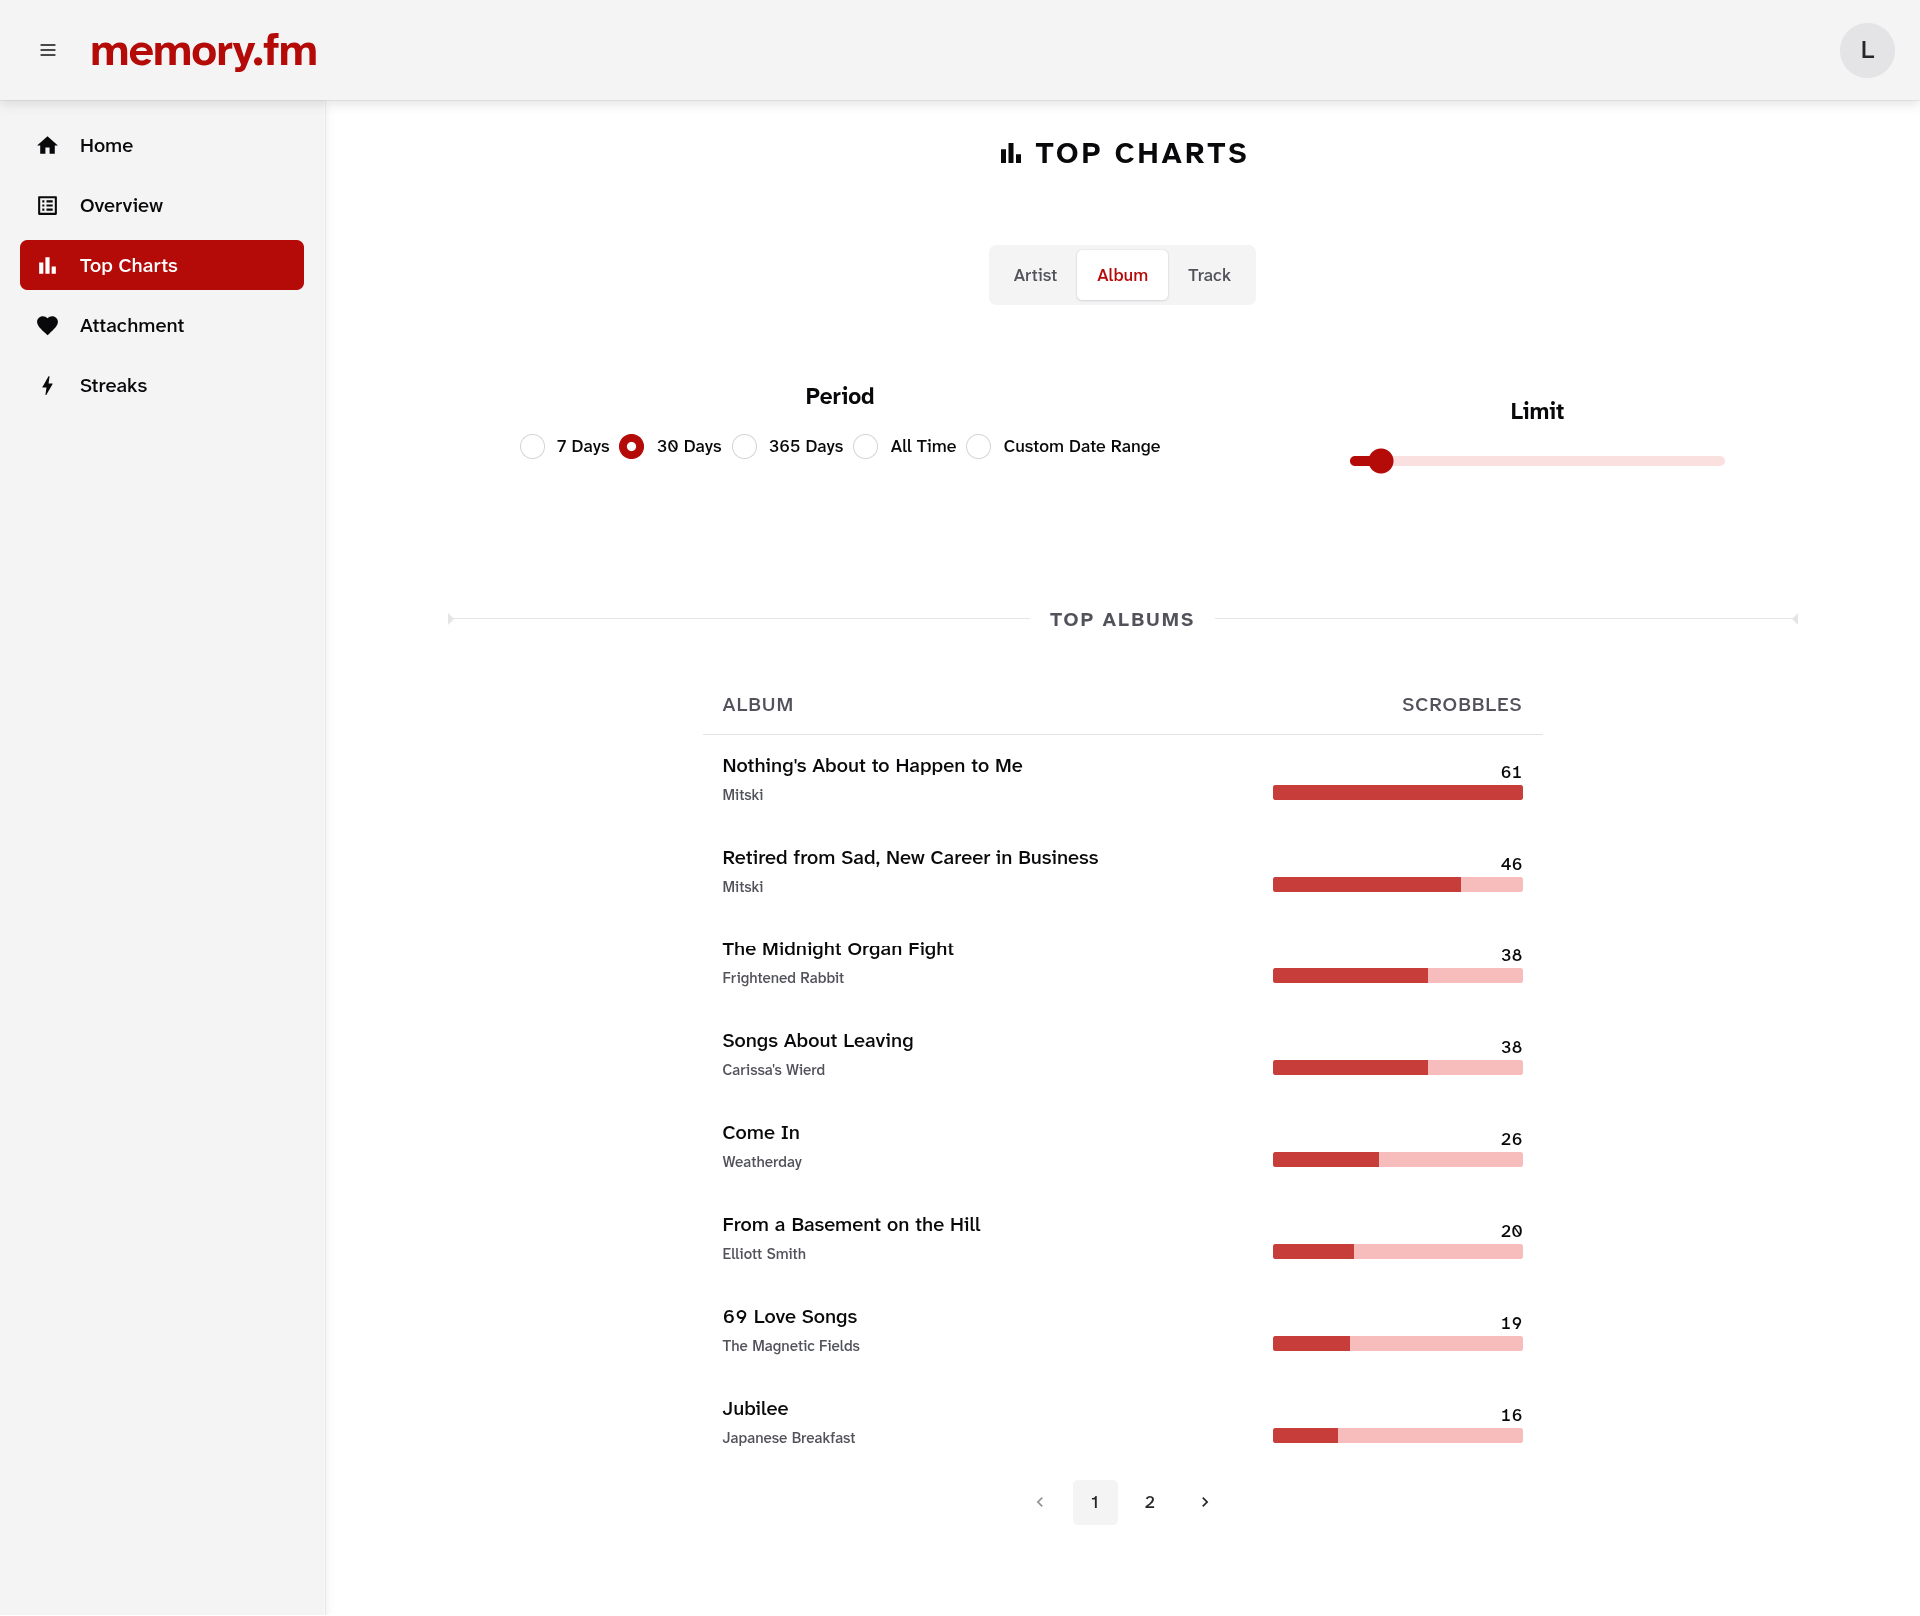
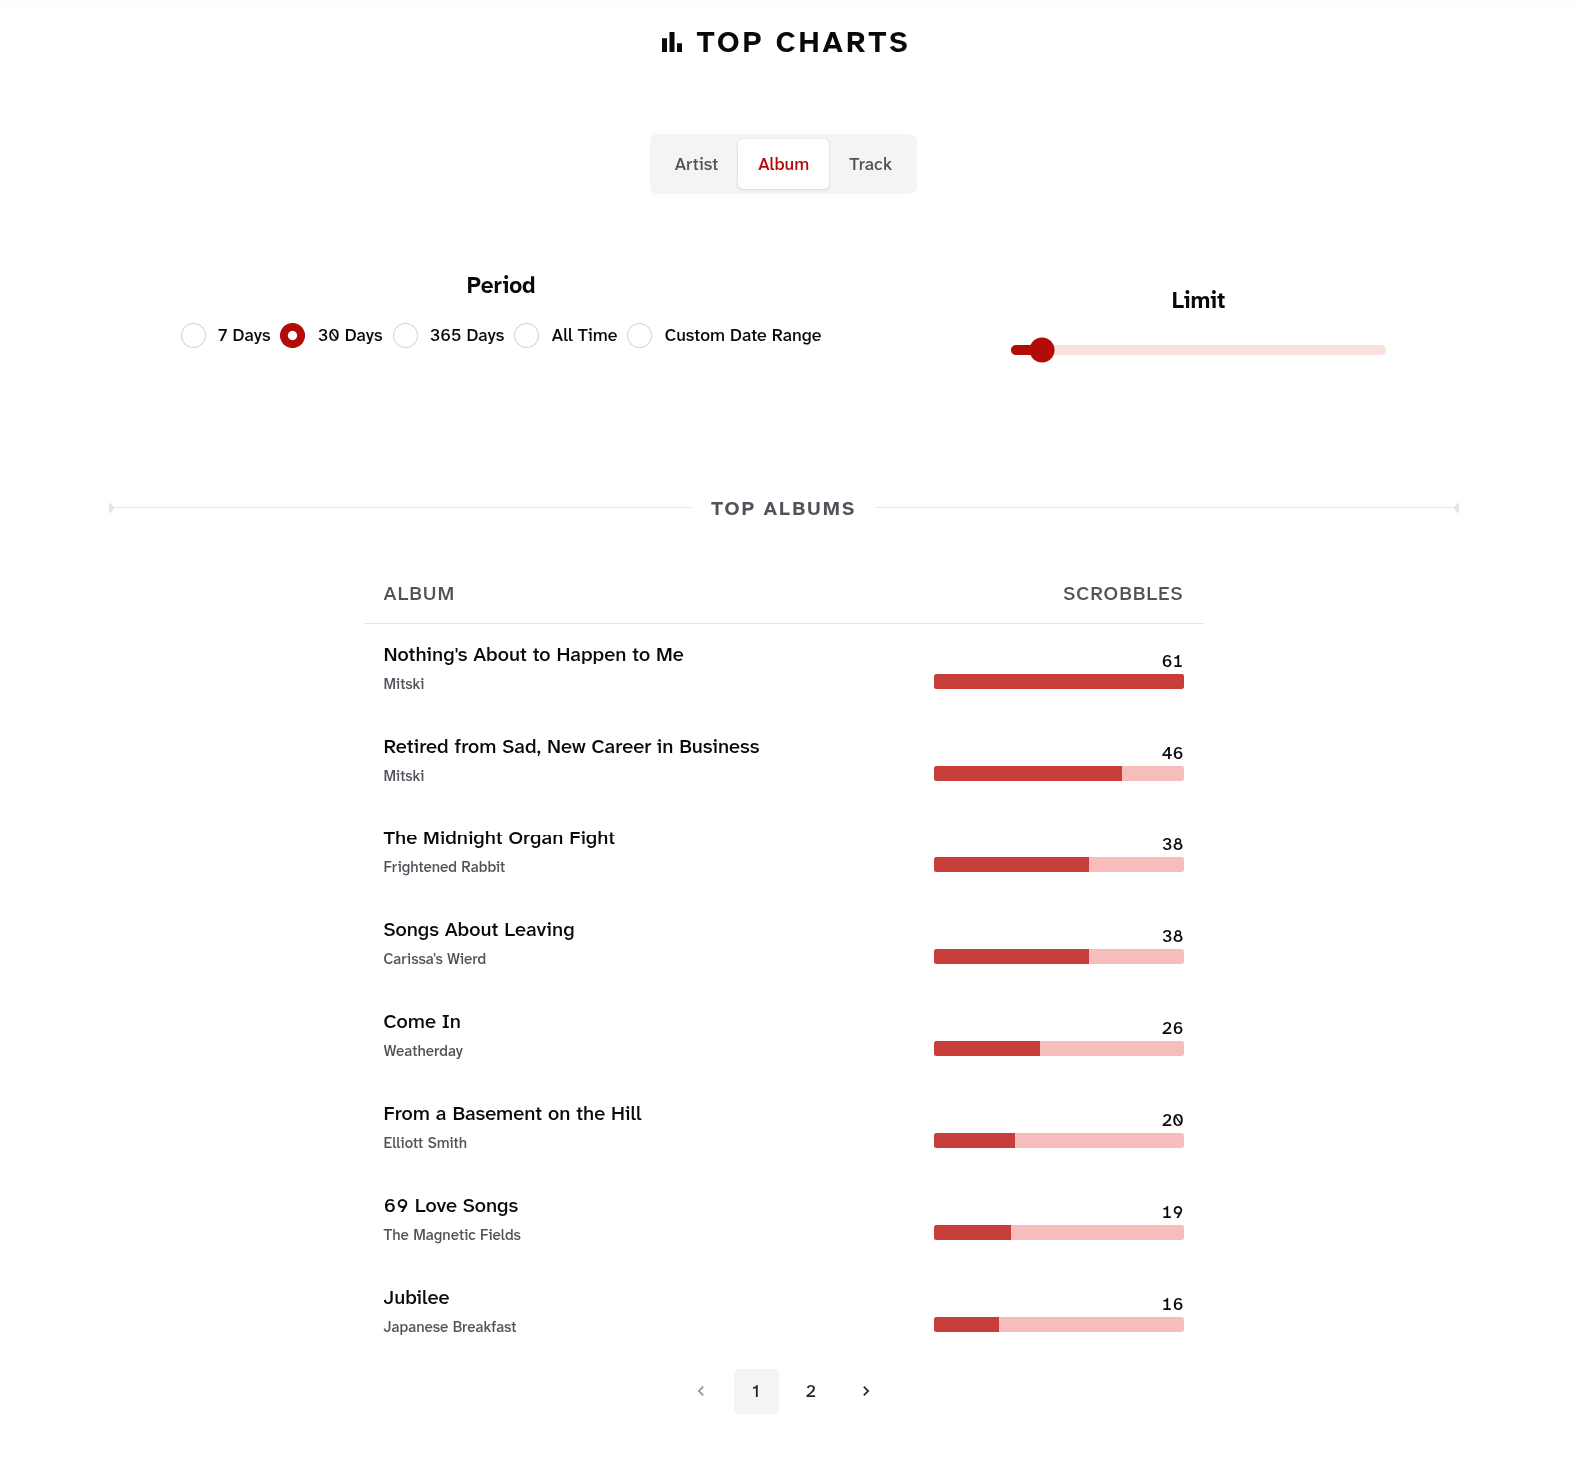
web: add top streaks and improve mobile usability of streaks page
- Add TopStreaks component on Streaks page to show top 8 streaks.
- On smaller screen, show message to rotate screen to view streaks
  timeline.
- Fix sliderselector width for smaller screen.
- Left align all alert messages.
- Update screenshots in README.

diff --git a/apps/web/src/components/features/streaks/top_streaks.tsx b/apps/web/src/components/features/streaks/top_streaks.tsx
@@ -1,0 +1,147 @@
+import type { ListeningStreak } from "@/typing";
+import { Box, Card, Flex, Text as ChakraText, Badge, Alert, useBreakpointValue, Stack } from "@chakra-ui/react";
+
+function topStreaksByLength(streaks: ListeningStreak[], count: number) {
+
+    const sortedStreaks = streaks.sort((a, b) => b.length - a.length);
+    return sortedStreaks.slice(0, count);
+}
+
+function StreakCard(streak: ListeningStreak) {
+
+    const { start, end } = streak;
+
+    const fmtNumber = (value: number, name: string) => {
+        return value > 1 ? `${value} ${name}s` : value > 0 ? `${value} ${name}` : "";
+    }
+    const formatDuration = (ms: number) => {
+        const totalminutes = Math.trunc(ms / (60 * 1000));
+        const minutes = totalminutes % 60;
+        const totalhours = Math.trunc(totalminutes / 60);
+        const hours = totalhours % 24;
+        const days = Math.trunc(totalhours / 24);
+
+        return `${fmtNumber(days, "day")} ${fmtNumber(hours, "hour")} ${fmtNumber(minutes, "minute")}`;
+    };
+
+    // Format Date
+    const formatDate = (value: string | number | Date) => {
+        return new Intl.DateTimeFormat(undefined, {
+            year: "numeric",
+            month: "short",
+            day: "2-digit",
+            hour: "2-digit",
+            minute: "2-digit",
+            hour12: true,
+        }).format(new Date(value));
+    };
+
+    // Compute streak duration
+    const startDate = new Date(streak.start);
+    const endDate = new Date(streak.end);
+
+    const transformedStreak = {
+        ...streak,
+        startFormatted: formatDate(start),
+        endFormatted: formatDate(end),
+        duration: endDate.getTime() - startDate.getTime(),
+        durationFormatted: formatDuration(endDate.getTime() - startDate.getTime()),
+        subnameFormatted: streak.subname ? `${streak.subname}` : "",
+    };
+
+    return (
+        <>
+            <Box w={{ base: "240px", md: "240px" }}>
+                <Card.Root
+                    variant="outline"
+                    _hover={{ bg: "bg.muted" }}
+                    transition="0.2s"
+                    padding={4}
+                >
+                    <Flex justify="space-between" align="center">
+                        <Stack gap={"1"}>
+                            <ChakraText fontWeight="bold">
+                                {transformedStreak.name}
+                            </ChakraText>
+                            {transformedStreak.subnameFormatted && (
+                                <ChakraText fontSize="sm" fontStyle="italic" color="fg">
+                                    {transformedStreak.subnameFormatted}
+                                </ChakraText>
+                            )}
+                            <ChakraText fontWeight={"bold"} fontSize={"sm"} color={"accent"}>
+                                {transformedStreak.length} Scrobbles
+                            </ChakraText>
+                            <Badge colorPalette={"brand"} mt={2} variant="surface" size={{ base: "sm", md: "md" }}>
+                                {transformedStreak.durationFormatted}
+                            </Badge>
+                            <Badge bg="bg.muted" mt={2} variant="surface" size={{ base: "sm", md: "md" }}>
+                                Start: {transformedStreak.startFormatted}
+                            </Badge>
+                            <Badge bg="bg.muted" mt={1} variant="surface" size={{ base: "sm", md: "md" }}>
+                                End: {transformedStreak.endFormatted}
+                            </Badge>
+                        </Stack>
+                    </Flex>
+                </Card.Root>
+            </Box>
+        </>
+    )
+
+}
+
+function groupCards(streaks: ListeningStreak[], size: number) {
+    const groups = [];
+
+    for (let i = 0; i < streaks.length; i += size) {
+        groups.push(streaks.slice(i, i + size));
+    }
+
+    return groups;
+}
+
+function StreakGroup(group: ListeningStreak[]) {
+    return (
+        <Flex
+            direction={{ base: "column", md: "row" }}
+            gap="10"
+            w={"full"}
+        >
+            {group.map((s) => (
+                StreakCard(s)
+            ))}
+        </Flex>
+    )
+}
+
+export default function TopStreaks(
+    { streaks }: { streaks: ListeningStreak[] }
+) {
+
+    if (streaks.length === 0) {
+        <Flex justify={"center"}>
+            <Alert.Root status={"info"} width={{ base: "250px", md: "sm" }} justifySelf={"center"}>
+                <Alert.Indicator />
+                <Alert.Content textAlign={"left"}>
+                    <Alert.Title>No streaks found in the selected period.</Alert.Title>
+                </Alert.Content>
+            </Alert.Root>
+        </Flex>
+    }
+
+    const topStreaks = topStreaksByLength(streaks, 8);
+    const groupSize = useBreakpointValue({ base: 1, md: 2, lg: 3, xl: 4 });
+    const groups = groupCards(topStreaks, groupSize || 1);
+
+    return (
+        <Flex
+            gap={{ base: 8, md: 12 }}
+            mt={6}
+            direction="column"
+            justify={"center"}
+        >
+            {groups.map((g) => (
+                StreakGroup(g)
+            ))}
+        </Flex>
+    )
+}

diff --git a/apps/web/src/components/pages/streaks.tsx b/apps/web/src/components/pages/streaks.tsx
@@ -14,6 +14,7 @@ import Section from "../ui/section";
 import { LoadingSpinner } from "../ui/loading";
 import { MdBolt } from "react-icons/md";
 import PageHeader from "../ui/page-header";
+import TopStreaks from "../features/streaks/top_streaks";
 
 
 export default function StreaksPage() {
@@ -78,16 +79,17 @@ export default function StreaksPage() {
                 <KindSelector value={params.kind} onKindChange={setKind} />
             </Box>
             <Flex
+                direction={{base: "column", md: "row"}}
                 justify="space-around"
                 wrap="wrap"
                 gap={4}
                 padding={"4"}
-                mx={"12"}
+                mx={{ base: 0, md: 12 }}
                 mt={"4"}
             >
-                <VStack align="center" gap={"4"} px="6" py="3">
+                <VStack align="center" gap={"4"} px={{base: 2, md: 6}} py="3">
                     <ChakraText
-                        fontSize={"lg"}
+                        fontSize={{base: "sm", md: "lg"}}
                         fontWeight={"bold"}
                     >Year</ChakraText>
                     <SliderSelector
@@ -99,13 +101,21 @@ export default function StreaksPage() {
                 </VStack>
             </Flex>
             {(!isLoading) && (
-                <Section
-                    title={`Streaks timeline - ${params.kind}s`}
-                >
-                    <StreaksTimeline
-                        streaks={streaks}
-                    />
-                </Section>
+                <>
+                    <Section title={`Top Streaks - ${params.kind}`}
+                    >
+                        <Box maxW={{ base: "250px", md: "full" }}>
+                            <TopStreaks streaks={streaks} />
+                        </Box>
+                    </Section>
+                    <Section
+                        title={`Streaks timeline - ${params.kind}s`}
+                    >
+                        <StreaksTimeline
+                            streaks={streaks}
+                        />
+                    </Section>
+                </>
             )}
         </Flex>
     )

diff --git a/apps/web/src/components/features/streaks/streaks_timeline.tsx b/apps/web/src/components/features/streaks/streaks_timeline.tsx
@@ -1,5 +1,5 @@
 import type { ListeningStreak } from "@/typing";
-import { Flex } from "@chakra-ui/react";
+import { Alert, Flex, useBreakpointValue } from "@chakra-ui/react";
 import type { Layout } from "plotly.js";
 import Plotly from "plotly.js-dist";
 import _createPlotlyComponent from 'react-plotly.js/factory';
@@ -119,8 +119,10 @@ export default function StreaksTimeline(
             "Length: %{customdata.length}<extra></extra>",
     }];
 
+    const chartWidth = useBreakpointValue({ md: 700, lg: 1000, xl: 1000 });
+
     const layout: Partial<Layout> = {
-        width: 1000,
+        width: chartWidth,
         height: 300,
         margin: { l: 20, r: 20, t: 0, b: 40 },
         font: {
@@ -138,17 +140,30 @@ export default function StreaksTimeline(
         paper_bgcolor: "transparent",
     }
 
+    const isWide = useBreakpointValue({ base: false, md: true, lg: true });
+
     return (
         <Flex justify={"center"}>
-            <Plot
-                data={data as any}
-                layout={layout}
-                config={{
-                    responsive: true,
-                    displayModeBar: false,
-                }}
-
-            />
+            {isWide ? (
+                <Plot
+                    data={data as any}
+                    layout={layout}
+                    config={{
+                        responsive: true,
+                        displayModeBar: false,
+                    }}
+                />) : (
+                <Alert.Root status={"info"} width={{ base: "250px", md: "sm" }} justifySelf={"center"}>
+                    <Alert.Indicator />
+                    <Alert.Content textAlign={"left"}>
+                        <Alert.Title>
+                            To view the streaks timeline on smaller devices such as smartphones,
+                            please rotate the screen to view in landscape mode.
+                        </Alert.Title>
+                    </Alert.Content>
+                </Alert.Root>
+            )
+            }
         </Flex>
     );
 }

diff --git a/apps/web/src/components/features/overview/sync_progress.tsx b/apps/web/src/components/features/overview/sync_progress.tsx
@@ -16,7 +16,7 @@ export default function SyncProgress(
                 <Box w={{ base: "xs", md: "md" }}>
                     <Alert.Root status={"error"} title="Sync Error">
                         <Alert.Indicator />
-                        <Alert.Content>
+                        <Alert.Content textAlign={"left"}>
                             <Alert.Description>
                                 Sync failed: {syncStatus.error || "Unexpected Error."}
                             </Alert.Description>
@@ -61,7 +61,7 @@ export default function SyncProgress(
                         <Progress.Range />
                     </Progress.Track>
                     <Progress.ValueText>
-                        {progressPercent.toPrecision(3)}% {/*({syncStatus.fetched_scrobbles}/{syncStatus.total_scrobbles})*/}
+                        {progressPercent.toPrecision(3)}%
                     </Progress.ValueText>
                 </HStack>
                 <Progress.Label mt={2}>
@@ -70,7 +70,7 @@ export default function SyncProgress(
             </Progress.Root>
             <Alert.Root status={"info"} width={{ base: "auto", md: "md" }} justifySelf={"center"}>
                 <Alert.Indicator />
-                <Alert.Content>
+                <Alert.Content textAlign={"left"}>
                     <Alert.Title>First sync may take some time for large listening histories.</Alert.Title>
                     <Alert.Description> While your scrobbles
                         sync, you can still view your stats and charts using the sidebar.

diff --git a/apps/web/src/components/pages/attachment.tsx b/apps/web/src/components/pages/attachment.tsx
@@ -143,7 +143,7 @@ export default function AttachmentPage() {
                 <Flex justify={"center"}>
                     <Alert.Root status={"info"} width={{base: "auto", md: "sm"}} justifySelf={"center"}>
                         <Alert.Indicator />
-                        <Alert.Content>
+                        <Alert.Content textAlign={"left"}>
                             <Alert.Title>No scrobbles found in the selected period.</Alert.Title>
                         </Alert.Content>
                     </Alert.Root>

diff --git a/apps/web/src/components/pages/topcharts.tsx b/apps/web/src/components/pages/topcharts.tsx
@@ -147,7 +147,7 @@ export default function TopChartsPage() {
                 <Flex justify={"center"}>
                     <Alert.Root status={"info"} width={{base: "250px", md: "sm"}} justifySelf={"center"}>
                         <Alert.Indicator />
-                        <Alert.Content>
+                        <Alert.Content textAlign={"left"}>
                             <Alert.Title>No scrobbles found in the selected period.</Alert.Title>
                         </Alert.Content>
                     </Alert.Root>

diff --git a/apps/web/src/components/features/attachment/attachment_moments.tsx b/apps/web/src/components/features/attachment/attachment_moments.tsx
@@ -175,7 +175,7 @@ export default function AttachmentTimeline(
             <Flex justify={"center"}>
                 <Alert.Root status={"info"} width={{ base: "250px", md: "sm" }} justifySelf={"center"}>
                     <Alert.Indicator />
-                    <Alert.Content>
+                    <Alert.Content textAlign={"left"}>
                         <Alert.Title>No attachment moments found in the selected period.</Alert.Title>
                     </Alert.Content>
                 </Alert.Root>

diff --git a/apps/web/src/components/features/overview/no_scrobbles.tsx b/apps/web/src/components/features/overview/no_scrobbles.tsx
@@ -36,7 +36,7 @@ export default function NoScrobbles(
                 {showWarning && (
                     <Alert.Root status={"warning"} title="Title">
                         <Alert.Indicator />
-                        <Alert.Content>
+                        <Alert.Content textAlign={"left"}>
                             <Alert.Description>
                                 No Scrobbles found! Please sync scrobbles using the sync button below.
                             </Alert.Description>

diff --git a/apps/web/src/components/features/overview/sync_complete_alert.tsx b/apps/web/src/components/features/overview/sync_complete_alert.tsx
@@ -16,7 +16,7 @@ export default function SyncCompleteAlert(
         >
             <Alert.Root status={"info"} width={{ base: "250px", md: "xs"}}>
                 <Alert.Indicator />
-                <Alert.Content>
+                <Alert.Content textAlign={"left"}>
                     <Alert.Title>Fetched {fetched! - 1} scrobble{fetched! != 1 ? "s" : ""}</Alert.Title>
                 </Alert.Content>
                 <CloseButton

diff --git a/apps/web/src/components/features/analytics/sliderselector.tsx b/apps/web/src/components/features/analytics/sliderselector.tsx
@@ -20,7 +20,7 @@ export default function SliderSelector(
             value={[value]}
             min={min}
             max={max}
-            minW={"300px"}
+            minW={{base: "200px", md: "300px"}}
             variant={"solid"}
             colorPalette={"brand"}
             onValueChange={(details) => onValueChange(details.value[0])}

diff --git a/README.md b/README.md
@@ -33,9 +33,9 @@ Instead of focusing only on aggregate stats, it surfaces long-term and local pat
 | -------- | -----------|
 | <img src="screenshots/attachment_index.png" width="600px" alt="Attachment Index" />| <img src="screenshots/attachment_timeline.png" width="600px" alt="Attachment Moments Timeline" />|
 
-| Streaks Timeline - Artists | Streaks Timeline - Albums|
+| Streaks - Tracks | Streaks - Albums|
 | -------------------------- | ------------------------ |
-|<img src="screenshots/streaks_artists.png" width="600px" alt="Streaks Timeline - Artists" /> |<img src="screenshots/streaks.png" width="600px" alt="Streaks Timeline - Albums" />|
+|<img src="screenshots/streaks_tracks.png" width="600px" alt="Streaks Timeline - Artists" /> |<img src="screenshots/streaks_albums.png" width="600px" alt="Streaks Timeline - Albums" />|
 
 
 ## Features
